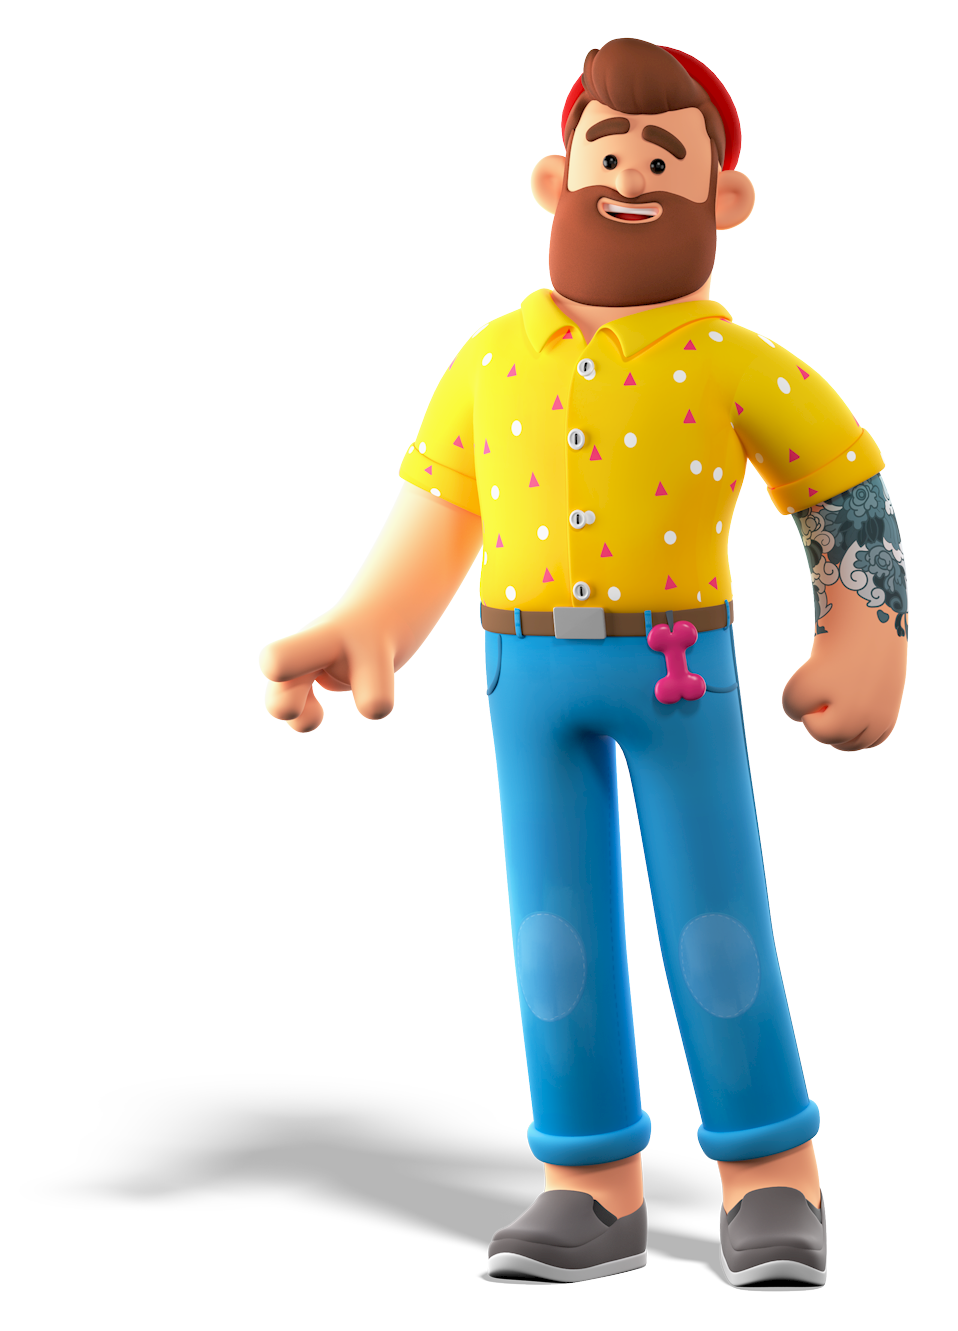
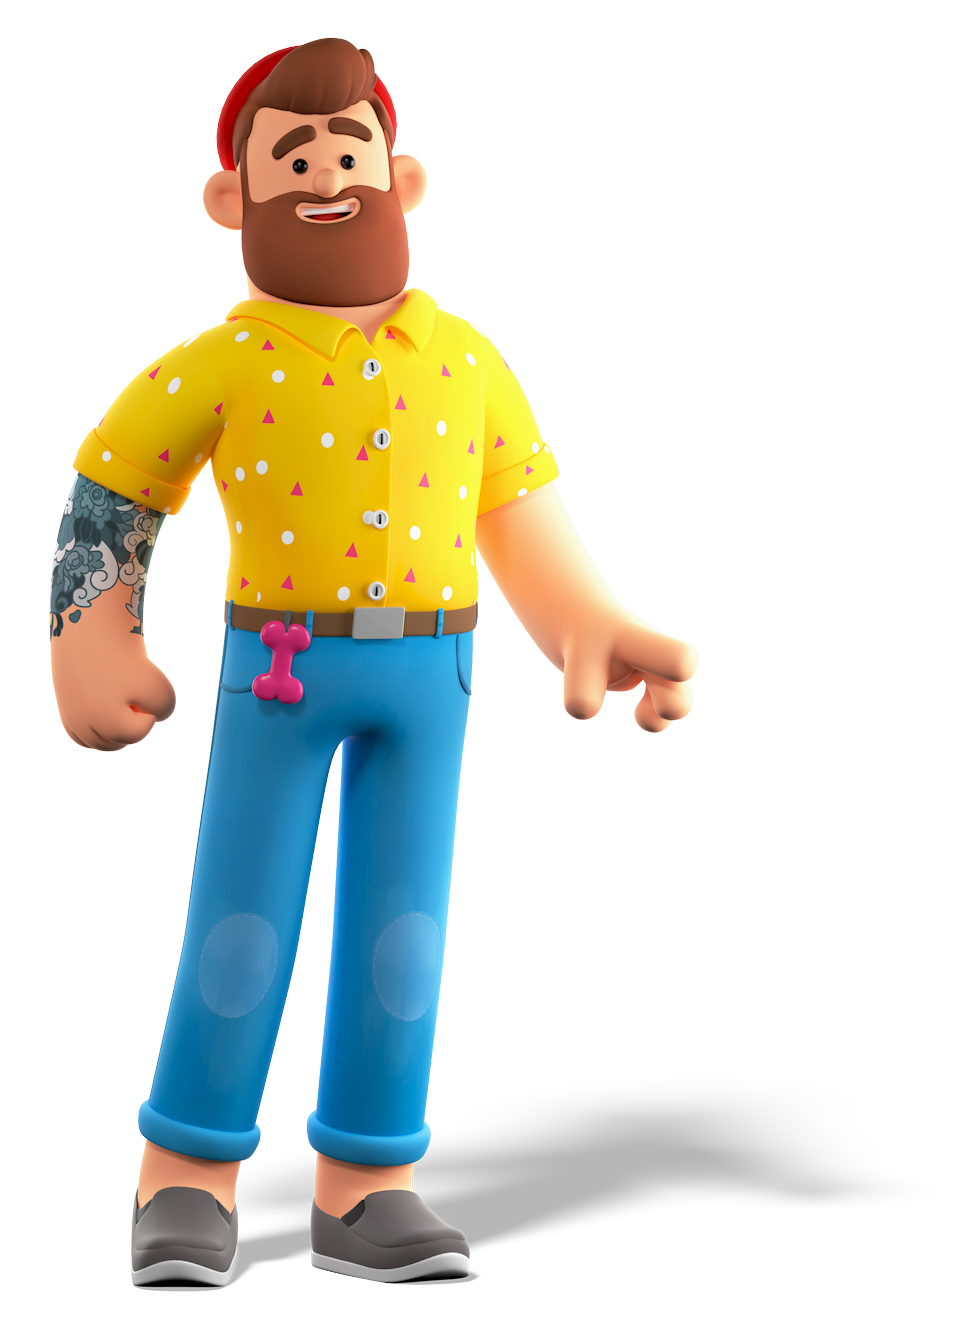
flipped owner iamge

diff --git a/src/components/PageParts.js b/src/components/PageParts.js
@@ -160,7 +160,18 @@ const OwnerImageCloseUpStyle = styled.div`
    }
 `
 let OwnerImageCloseUpDudley = styled(OwnerImageCloseUpStyle)`
-   margin-right: -20px;
+  width: 600px;
+   height: 1200px;
+   margin-right: -146px;
+   margin-top: 400px;
+   @media all and (-ms-high-contrast: none) {
+     margin-top: 0;
+   }
+`
+
+let OwnerImageCloseUpReggie = styled(OwnerImageCloseUpStyle)`
+   width: 700px;
+   height: 1300px;
    @media all and (-ms-high-contrast: none) {
      margin-top: 0;
    }
@@ -214,7 +225,7 @@ export const OwnerImageCloseUp = ({dogChoice,ownerState = animationCharacterStat
         }}
         >
        
-              <CustomFluidImage style={{marginLeft:'-100px',marginTop:topMarginDudley}} imgName="owner_resp_Mrs-Jenkins-Pose01.png" /> 
+              <CustomFluidImage style={{marginLeft:'0px',marginTop:topMarginDudley}} imgName="owner_resp_Mrs-Jenkins-Pose01.png" /> 
              
 
       </OwnerImageCloseUpDudley>
@@ -224,22 +235,22 @@ export const OwnerImageCloseUp = ({dogChoice,ownerState = animationCharacterStat
         }}>
 
        
-        <CustomFluidImage style={{marginLeft:'-200px',marginTop:topMarginPoppy}} imgName="owner_resp_Mr-Oakley-Poses02.png" /> 
+        <CustomFluidImage style={{marginLeft:'0px',marginTop:topMarginPoppy}} imgName="owner_resp_Mr-Oakley-Poses02.png" /> 
         
 
       </OwnerImageCloseUpStyle>
 
-      <OwnerImageCloseUpStyle
+      <OwnerImageCloseUpReggie
         style={{...style,
           display: getCssDisplayState(dogChoice, dogName.REGGIE),
 
         }}>
 
       
-         <CustomFluidImage style={{marginLeft:'-250px',marginTop:topMarginReggie}} imgName="owner_resp_Mrs-Richardson-Pose02.png" /> 
+         <CustomFluidImage style={{marginLeft:'0px',marginTop:topMarginReggie}} imgName="owner_resp_Mrs-Richardson-Pose02.png" /> 
         
 
-      </OwnerImageCloseUpStyle>
+      </OwnerImageCloseUpReggie>
     </>
     )
 }

diff --git a/src/templates/dogDetailTemplate.js b/src/templates/dogDetailTemplate.js
@@ -123,7 +123,7 @@ const FixedSizeImageStyled = styled((props) => (
   <FixedSizeImageStyledInner style={{
     width:props.width,
     height:props.height,
-    marginLeft: '-2rem',
+    marginLeft: props.moveLeft,
     backgroundColor: 'none'
     }}> 
        <CustomFluidImage imgName={props.imgName} />
@@ -209,9 +209,9 @@ export default function dogDetailTemplate(data, dogChoicePassed){
                 </Grid>
                 
                 <Grid item xs={12} sm={12} md={4} align="flex-start">     
-                       {(dogChoice === dogName.DUDLEY) ? <FixedSizeImageStyled imgName="dogAndOwnerDetails_Mrs-Jenkins-and-Dudley-Pose02.png" width="500px" height="500px"/> : ''}
-                       {(dogChoice === dogName.POPPY) ? <FixedSizeImageStyled imgName="Mr-Oakley-and-Poppy-Poses01.png" width="420px" height="640px"/> : ''}
-                       {(dogChoice === dogName.REGGIE) ? <FixedSizeImageStyled imgName="Mrs-Richardson-and-Reggie-Pose01.png" width="420px" height="640px"/> : ''}
+                       {(dogChoice === dogName.DUDLEY) ? <FixedSizeImageStyled imgName="dogAndOwnerDetails_Mrs-Jenkins-and-Dudley-Pose02.png" moveLeft="-180px" width="734px" height="712px"/> : ''}
+                       {(dogChoice === dogName.POPPY) ? <FixedSizeImageStyled imgName="Mr-Oakley-and-Poppy-Poses01.png" moveLeft="-150px" width="470px" height="690px"/> : ''}
+                       {(dogChoice === dogName.REGGIE) ? <FixedSizeImageStyled imgName="Mrs-Richardson-and-Reggie-Pose01.png" moveLeft="-150px" width="520px" height="740px"/> : ''}
                 </Grid>
             </Grid>
         </div>

diff --git a/src/components/DogDetailTable.js b/src/components/DogDetailTable.js
@@ -66,7 +66,7 @@ const DogTabText = styled.div`
   font-weight: 600;
   font-stretch: normal;
   font-style: normal;
-  line-height: 1.15;
+  line-height: 0.9;
   letter-spacing: 7.4px;
   text-align: center;
   color: ${theme.palette.topazBlue.main};

diff --git a/src/components/UserChoice.js b/src/components/UserChoice.js
@@ -200,7 +200,7 @@ const ScalingBlueCheckboxAlt =  styled(({ color, ...otherProps }) => (
     & .MuiIcon-root {
         width: 49px;
         height: 49px;
-        margin-left: 1rem;
+        margin-left: -5px;
     }
 
 `
